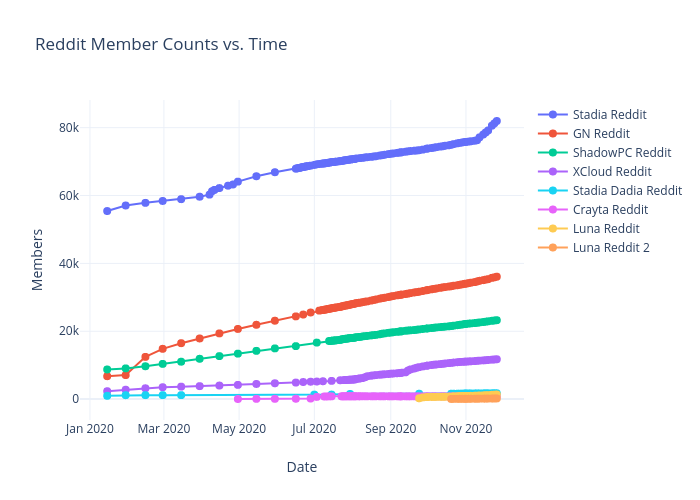
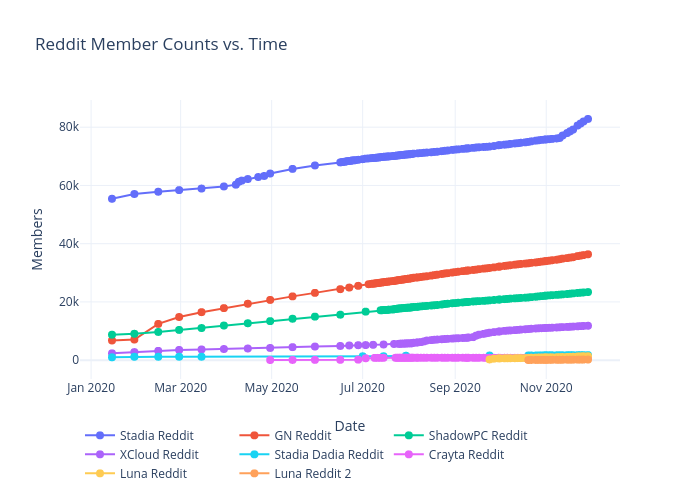
Add files via upload
11/29 data

diff --git a/reddit/figure.js b/reddit/figure.js
@@ -238,7 +238,8 @@ var figure = {
                 "79185",
                 "80575",
                 "81255",
-                "81965"
+                "81965",
+                "82837"
             ],
             "marker": {
                 "size": 8
@@ -484,7 +485,8 @@ var figure = {
                 "35351",
                 "35732",
                 "35888",
-                "36084"
+                "36084",
+                "36353"
             ],
             "marker": {
                 "size": 8
@@ -730,7 +732,8 @@ var figure = {
                 "22931",
                 "23081",
                 "23164",
-                "23254"
+                "23254",
+                "23381"
             ],
             "marker": {
                 "size": 8
@@ -976,7 +979,8 @@ var figure = {
                 "11530",
                 "11618",
                 "11683",
-                "11746"
+                "11746",
+                "11814"
             ],
             "marker": {
                 "size": 8
@@ -1222,7 +1226,8 @@ var figure = {
                 "1714",
                 "1716",
                 "1721",
-                "1722"
+                "1722",
+                "1725"
             ],
             "marker": {
                 "size": 8
@@ -1468,7 +1473,8 @@ var figure = {
                 "795",
                 "794",
                 "793",
-                "795"
+                "795",
+                "800"
             ],
             "marker": {
                 "size": 8
@@ -1714,7 +1720,8 @@ var figure = {
                 "1179",
                 "1277",
                 "1302",
-                "1354"
+                "1354",
+                "1370"
             ],
             "marker": {
                 "size": 8
@@ -1960,7 +1967,8 @@ var figure = {
                 "161",
                 "171",
                 "180",
-                "196"
+                "196",
+                "200"
             ],
             "marker": {
                 "size": 8
@@ -1976,8 +1984,8 @@ var figure = {
         "xaxis": {
             "type": "date",
             "range": [
-                "2019-12-25 21:27:42.9866",
-                "2020-12-16 02:32:17.0134"
+                "2019-12-26 00:12:48.762",
+                "2020-12-18 23:47:11.238"
             ],
             "title": {
                 "text": "Date"
@@ -1987,13 +1995,19 @@ var figure = {
         "yaxis": {
             "type": "linear",
             "range": [
-                -5581.53233714686,
-                87579.53233714685
+                -5756.217368829155,
+                88626.21736882915
             ],
             "title": {
                 "text": "Members"
             },
             "autorange": true
+        },
+        "legend": {
+            "x": 0,
+            "y": -0.15,
+            "bgcolor": "rgba(255, 255, 255, 0.01)",
+            "orientation": "h"
         },
         "autosize": true,
         "template": {
